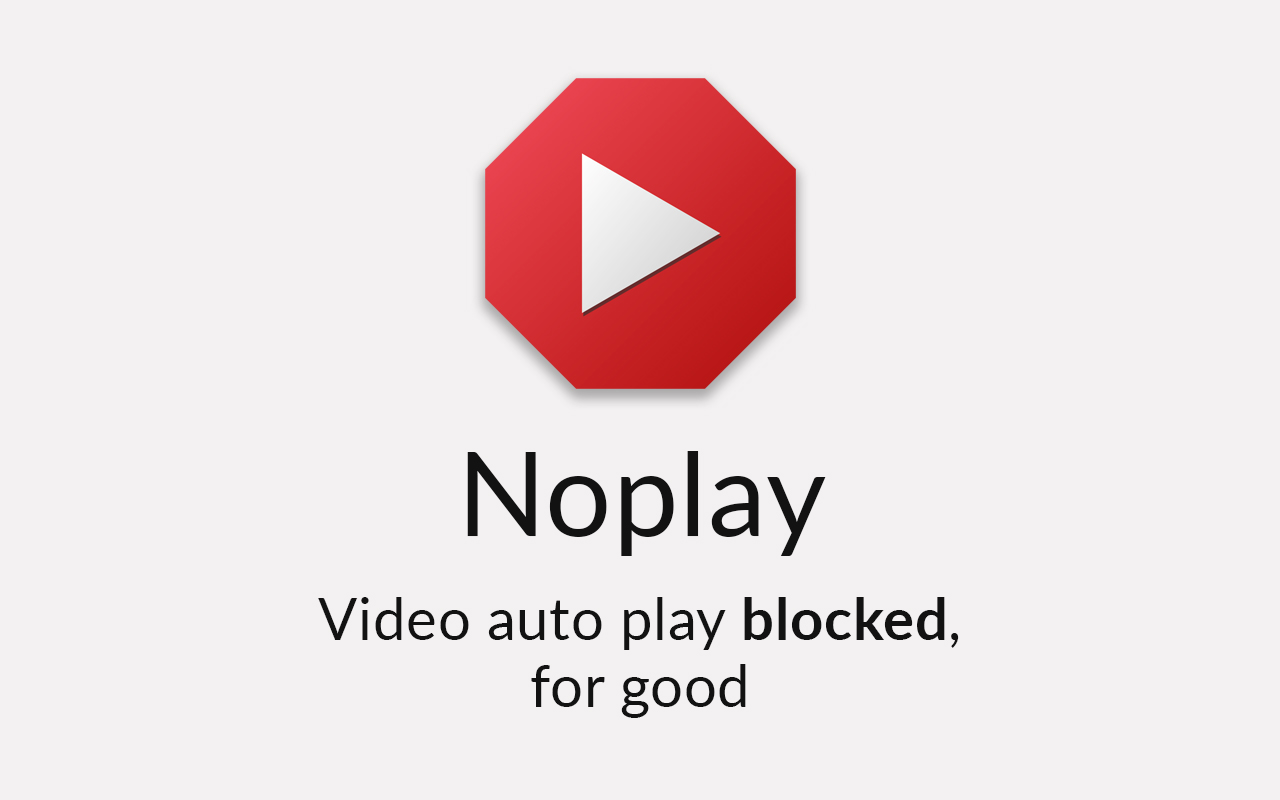
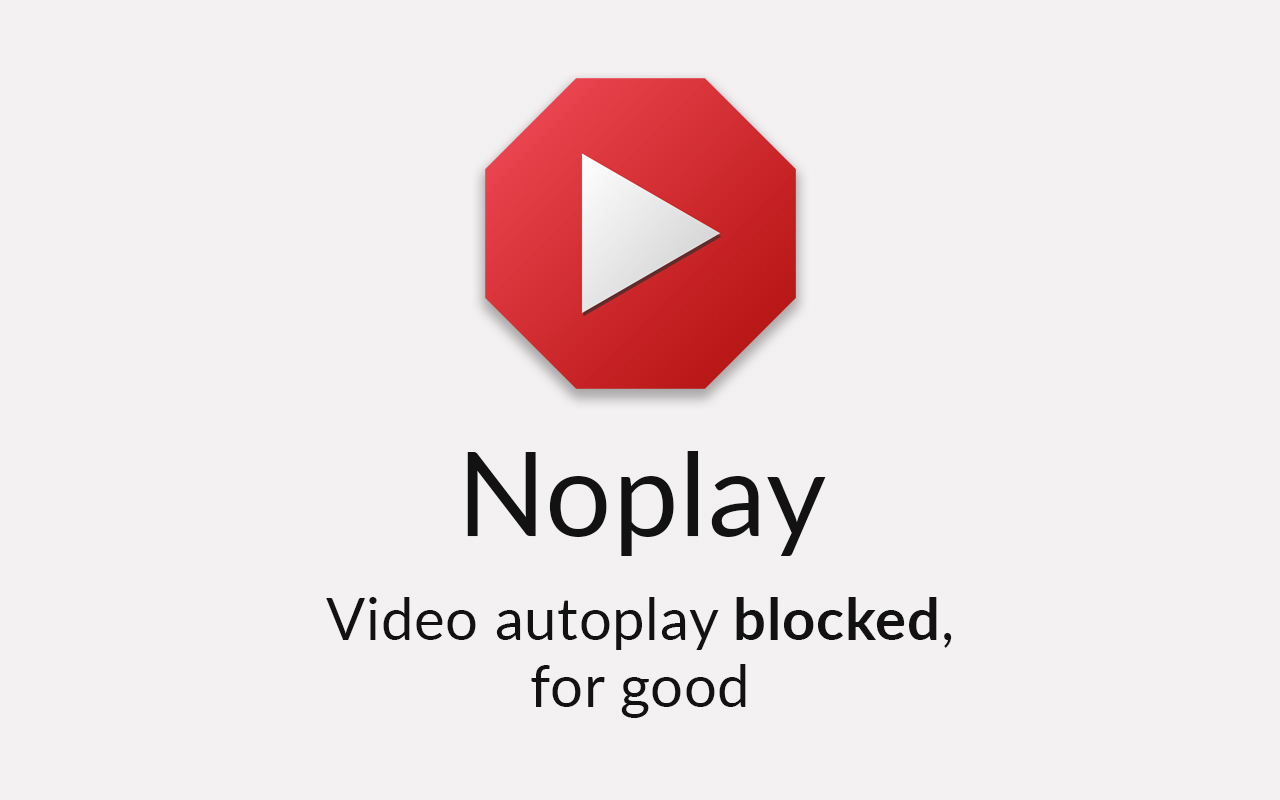
Update assets and bump

Changed region(s): [[0.25, 0.75, 0.75, 0.8125]]

diff --git a/README.md b/README.md
@@ -1,6 +1,6 @@
 # [![emitta](/images/tile.jpg)](https://github.com/dcamilleri/noplay)
 
-> 🛑 Video auto play blocked, for good (Chrome Extension)
+> 🛑 Video autoplay blocked, for good (Chrome Extension)
 
 `noplay` is a Google Chrome extension. It aims to **disable** the autoplaying behavior of videos on your favorite websites.
 
@@ -10,7 +10,9 @@
 
 `noplay` also deletes the `autoplay=1` query string in the Youtube `iframe` videos.
 
-⚠ `noplay` tweaks `video` and `iframe` tags, but cannot prevent videos from being played programmatically. Your thoughts and ideas are welcome! Submit an issue [here](https://github.com/dcamilleri/noplay/issues)
+⚠ `noplay` tweaks `video` and `iframe` tags, but cannot prevent videos from being played programmatically. 
+
+👋 Your thoughts and ideas are welcome! Submit an issue [here](https://github.com/dcamilleri/noplay/issues)
 
 ## What about Facebook or Twitter ?
 
